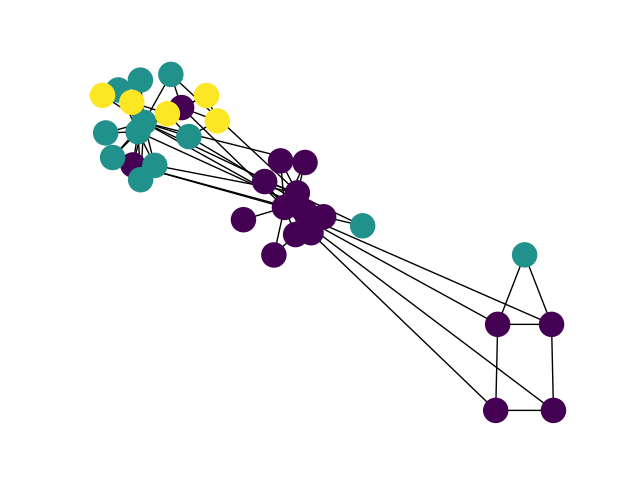
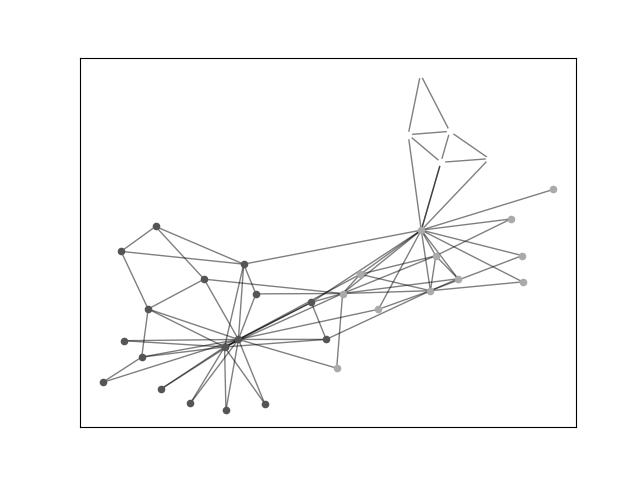
Test draw.py

diff --git a/utils/draw.py b/utils/draw.py
@@ -10,10 +10,20 @@ def draw_community(filepath, community_list, savepath):
         for node in community:
             partition[str(node)] = i
 
-    pos = _community_layout(g, partition)
-    f = plt.figure()
-    nx.draw(g, pos, node_color=list(partition.values()), ax=f.add_subplot(111))
-    f.savefig(savepath)
+    size = float(len(set(partition.values())))
+    pos = nx.spring_layout(g)
+
+    count = 0.
+    for com in set(partition.values()):
+        count = count + 1.
+        list_nodes = [nodes for nodes in partition.keys() if partition[nodes] == com]
+        nx.draw_networkx_nodes(g, pos, list_nodes, node_size=20, node_color=str(count / size))
+    nx.draw_networkx_edges(g, pos, alpha=0.5)
+    plt.savefig(savepath)
+    # f = plt.figure()
+    # pos = _community_layout(g, partition)
+    # nx.draw(g, pos, node_color=list(partition.values()), ax=f.add_subplot(111))
+    # f.savefig(savepath)
 
 
 def _community_layout(g, partition):
